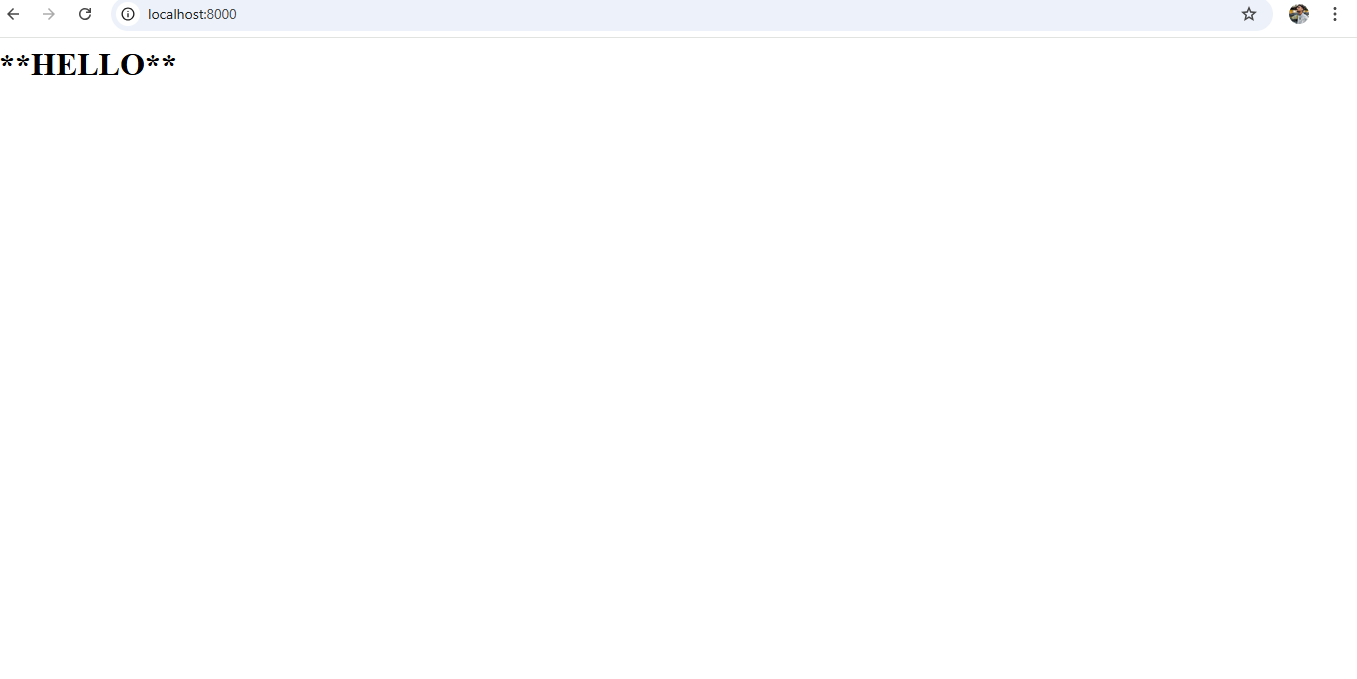
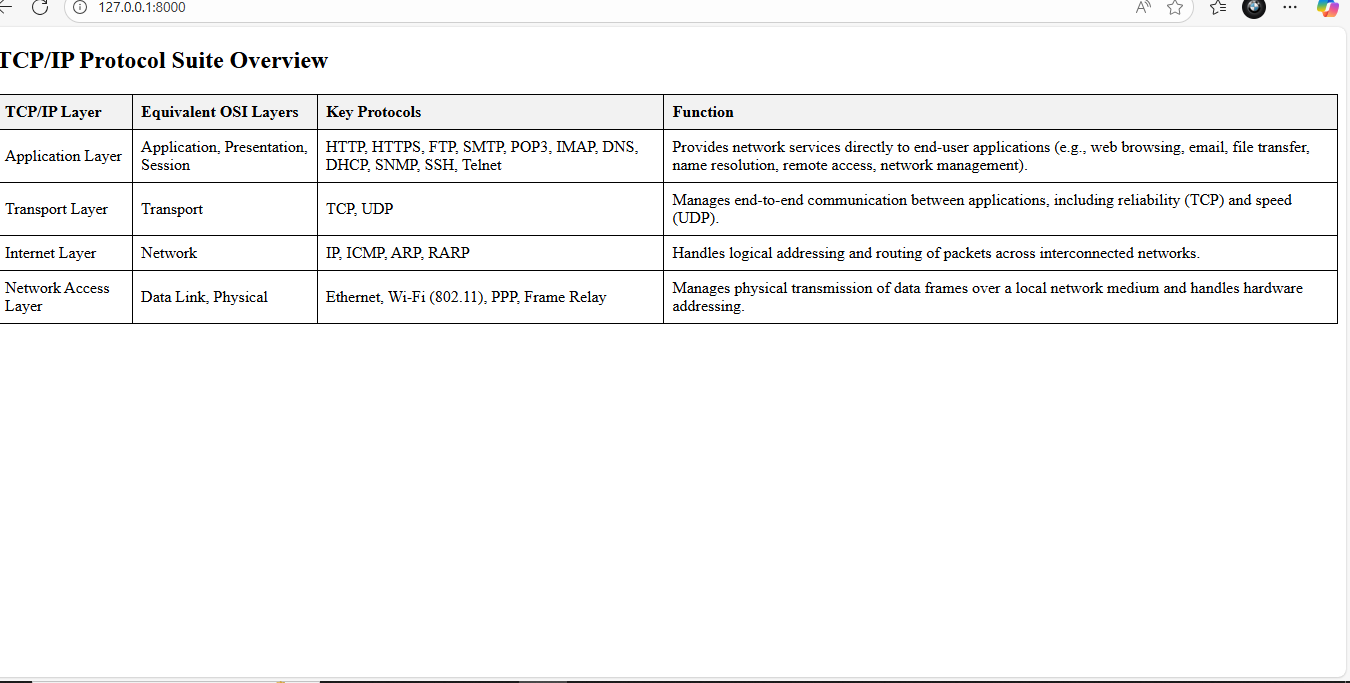
success

diff --git a/new.py b/new.py
@@ -1,18 +1,77 @@
 from http.server import HTTPServer, BaseHTTPRequestHandler
-content ='''
+content = """
+<!DOCTYPE html>
 <html>
-    <h1>**HELLO**</h1>
+<head>
+<title>TCP/IP Protocols</title>
+<style>
+  table {
+    width: 100%;
+    border-collapse: collapse;
+  }
+  th, td {
+    border: 1px solid black;
+    padding: 8px;
+    text-align: left;
+  }
+  th {
+    background-color: #f2f2f2;
+  }
+</style>
+</head>
+<body>
+
+<h2>TCP/IP Protocol Suite Overview</h2>
+
+<table>
+  <thead>
+    <tr>
+      <th>TCP/IP Layer</th>
+      <th>Equivalent OSI Layers</th>
+      <th>Key Protocols</th>
+      <th>Function</th>
+    </tr>
+  </thead>
+  <tbody>
+    <tr>
+      <td>Application Layer</td>
+      <td>Application, Presentation, Session</td>
+      <td>HTTP, HTTPS, FTP, SMTP, POP3, IMAP, DNS, DHCP, SNMP, SSH, Telnet</td>
+      <td>Provides network services directly to end-user applications (e.g., web browsing, email, file transfer, name resolution, remote access, network management).</td>
+    </tr>
+    <tr>
+      <td>Transport Layer</td>
+      <td>Transport</td>
+      <td>TCP, UDP</td>
+      <td>Manages end-to-end communication between applications, including reliability (TCP) and speed (UDP).</td>
+    </tr>
+    <tr>
+      <td>Internet Layer</td>
+      <td>Network</td>
+      <td>IP, ICMP, ARP, RARP</td>
+      <td>Handles logical addressing and routing of packets across interconnected networks.</td>
+    </tr>
+    <tr>
+      <td>Network Access Layer</td>
+      <td>Data Link, Physical</td>
+      <td>Ethernet, Wi-Fi (802.11), PPP, Frame Relay</td>
+      <td>Manages physical transmission of data frames over a local network medium and handles hardware addressing.</td>
+    </tr>
+  </tbody>
+</table>
+
+</body>
 </html>
-'''
-class MyServer(BaseHTTPRequestHandler):               
+"""
+class myhandler(BaseHTTPRequestHandler):
     def do_GET(self):
-        print("Get request recived...")
+        print("request received")
         self.send_response(200)
-        self.send_header("content-type","text/html")
+        self.send_header('content-type', 'text/html; charset=utf-8')
         self.end_headers()
         self.wfile.write(content.encode())
-
-print("This is my webserver")       
-server_address =('',8000)
-httpd = HTTPServer(server_address,MyServer)
+server_address = ('',8000)
+httpd = HTTPServer(server_address,myhandler)
+print("my webserver is running...")
 httpd.serve_forever()
+
